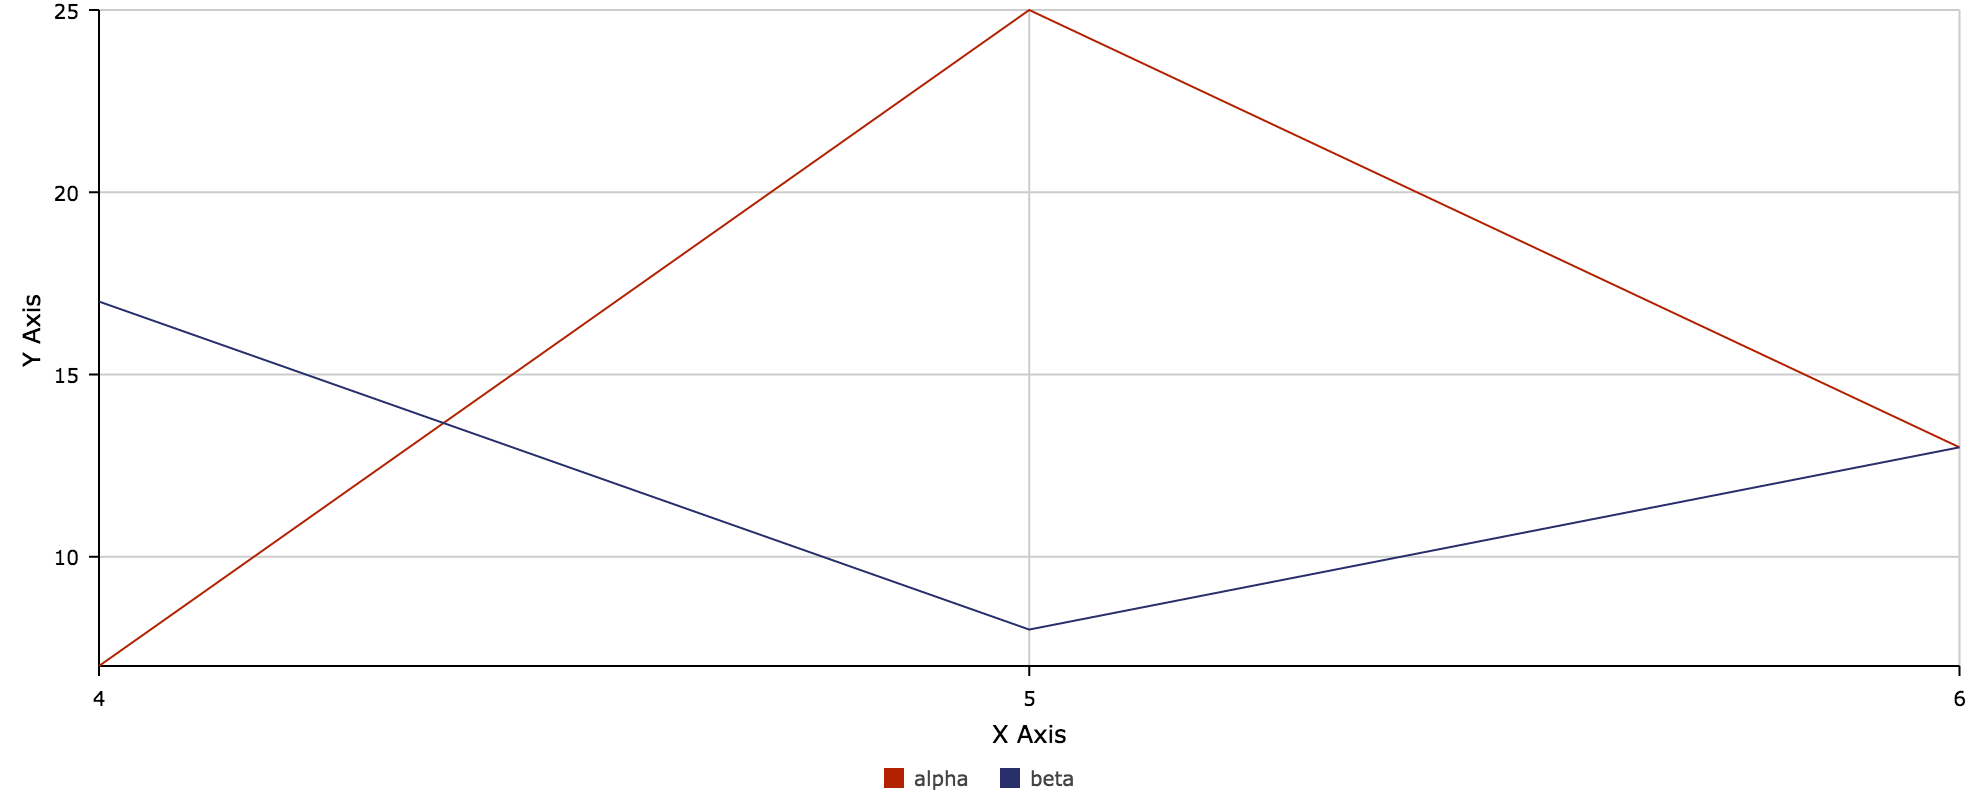
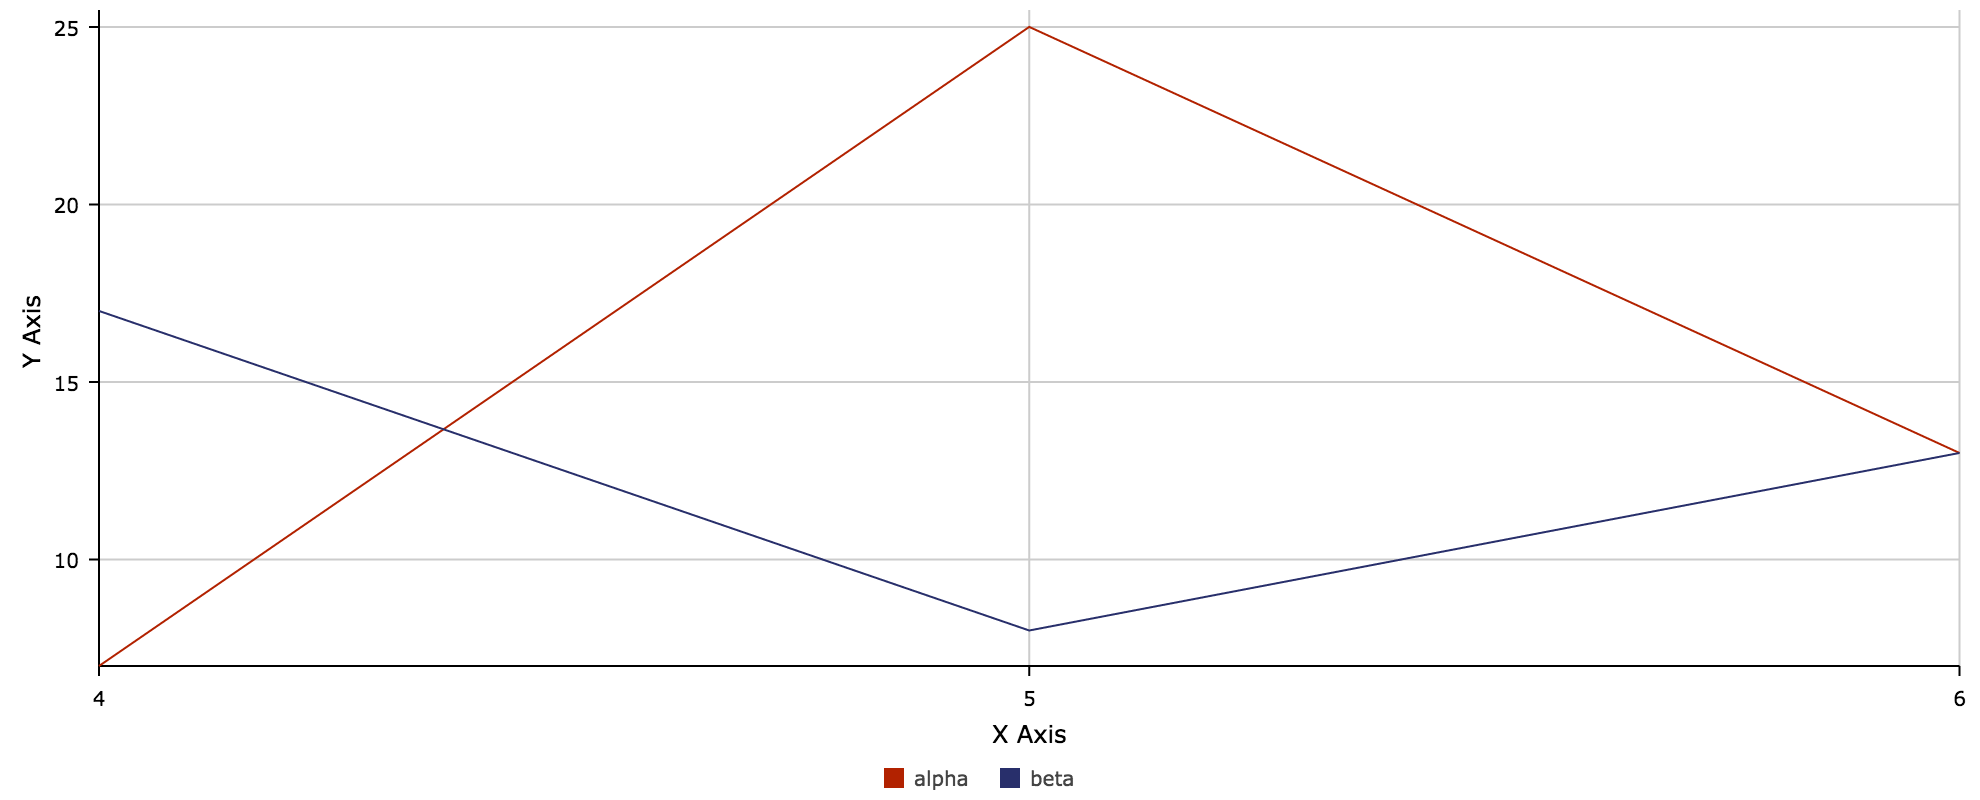
d3plus-plot examples

diff --git a/_examples/d3plus-plot/area/embed.html b/_examples/d3plus-plot/area/embed.html
@@ -4,7 +4,7 @@
 <head>
 
   <meta charset="utf-8">
-  <script src="https://d3plus.org/js/d3plus-plot.v0.2.full.min.js"></script>
+  <script src="https://d3plus.org/js/d3plus-plot.v0.3.full.min.js"></script>
 
   <style>
 

diff --git a/_examples/d3plus-plot/getting-started/embed.html b/_examples/d3plus-plot/getting-started/embed.html
@@ -4,7 +4,7 @@
 <head>
 
   <meta charset="utf-8">
-  <script src="https://d3plus.org/js/d3plus-plot.v0.2.full.min.js"></script>
+  <script src="https://d3plus.org/js/d3plus-plot.v0.3.full.min.js"></script>
 
   <style>
 

diff --git a/_examples/d3plus-plot/line-plot/embed.html b/_examples/d3plus-plot/line-plot/embed.html
@@ -4,7 +4,7 @@
 <head>
 
   <meta charset="utf-8">
-  <script src="https://d3plus.org/js/d3plus-plot.v0.2.full.min.js"></script>
+  <script src="https://d3plus.org/js/d3plus-plot.v0.3.full.min.js"></script>
 
   <style>
 

diff --git a/_examples/d3plus-plot/stacked-area-flip/embed.html b/_examples/d3plus-plot/stacked-area-flip/embed.html
@@ -4,7 +4,7 @@
 <head>
 
   <meta charset="utf-8">
-  <script src="https://d3plus.org/js/d3plus-plot.v0.2.full.min.js"></script>
+  <script src="https://d3plus.org/js/d3plus-plot.v0.3.full.min.js"></script>
 
   <style>
 

diff --git a/_examples/d3plus-plot/stacked-area/embed.html b/_examples/d3plus-plot/stacked-area/embed.html
@@ -4,7 +4,7 @@
 <head>
 
   <meta charset="utf-8">
-  <script src="https://d3plus.org/js/d3plus-plot.v0.2.full.min.js"></script>
+  <script src="https://d3plus.org/js/d3plus-plot.v0.3.full.min.js"></script>
 
   <style>
 
